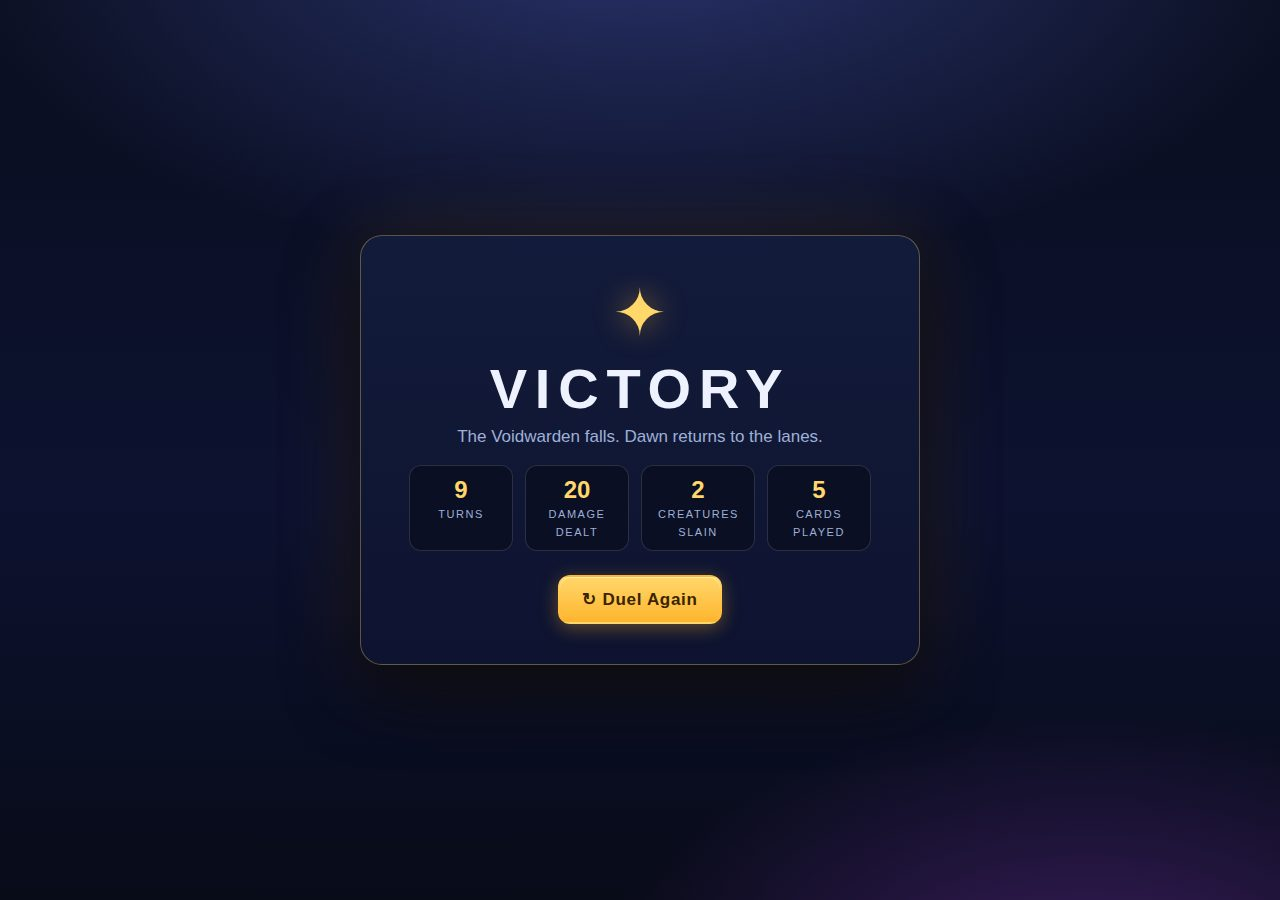
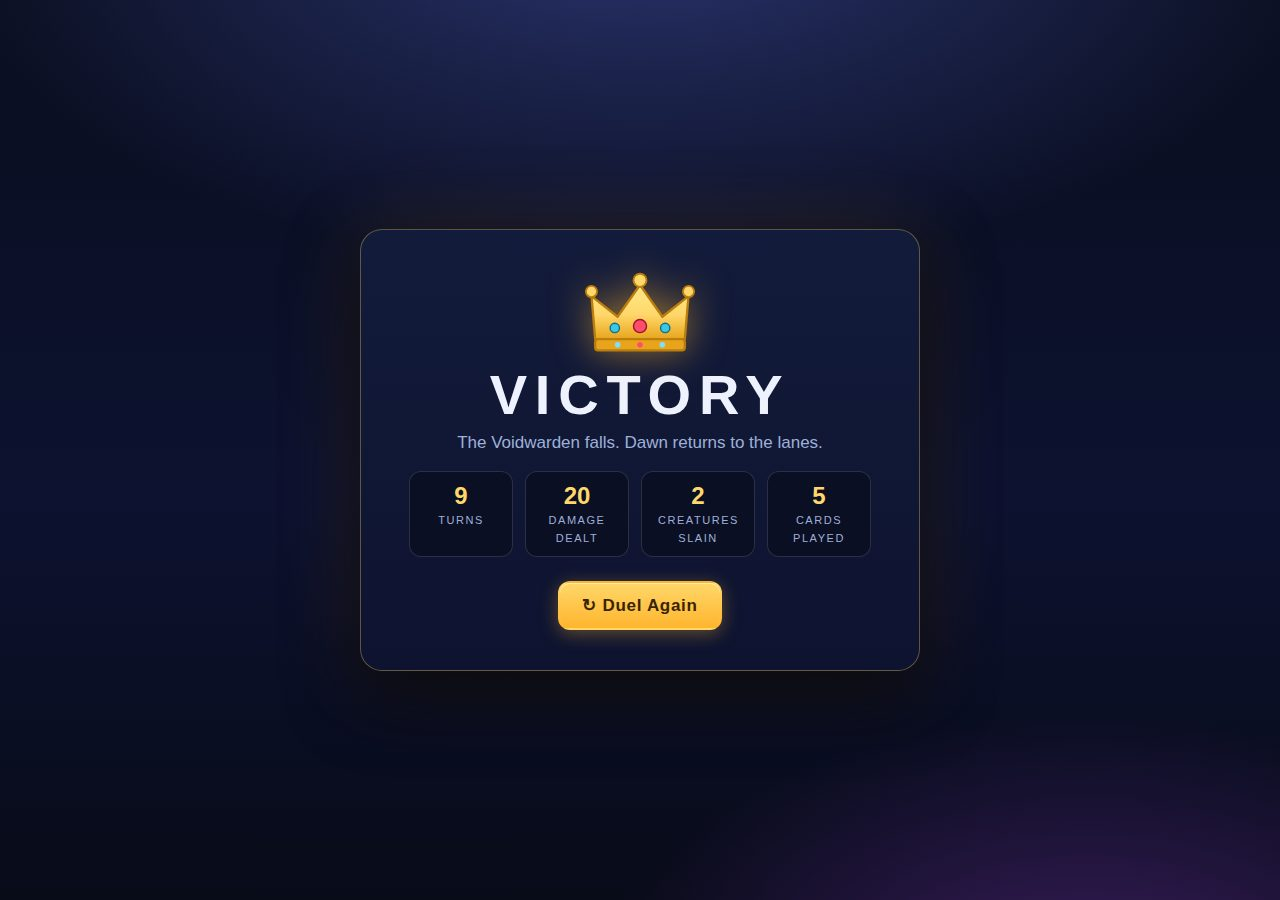
Victory emblem: golden crown (per user request)

diff --git a/game/game.js b/game/game.js
@@ -434,10 +434,31 @@ function checkEnd(){
   if(S.enemy.life <= 0) endGame(true);
   else if(S.player.life <= 0) endGame(false);
 }
+const CROWN_SVG = `<svg viewBox="0 0 120 92" width="112" height="86" role="img" aria-label="Golden crown">
+  <defs>
+    <linearGradient id="crownGold" x1="0" y1="0" x2="0" y2="1">
+      <stop offset="0" stop-color="#ffe98a"/>
+      <stop offset=".55" stop-color="#ffd76a"/>
+      <stop offset="1" stop-color="#e8a51c"/>
+    </linearGradient>
+  </defs>
+  <path d="M12 74 L8 28 L36 50 L60 16 L84 50 L112 28 L108 74 Z" fill="url(#crownGold)" stroke="#b97e0e" stroke-width="2.5" stroke-linejoin="round"/>
+  <circle cx="8" cy="23" r="6" fill="#ffd76a" stroke="#b97e0e" stroke-width="2"/>
+  <circle cx="60" cy="11" r="7" fill="#ffd76a" stroke="#b97e0e" stroke-width="2"/>
+  <circle cx="112" cy="23" r="6" fill="#ffd76a" stroke="#b97e0e" stroke-width="2"/>
+  <rect x="12" y="74" width="96" height="12" rx="3" fill="#e8a51c" stroke="#b97e0e" stroke-width="2.5"/>
+  <circle cx="60" cy="60" r="7" fill="#ff4d6d" stroke="#a1122e" stroke-width="1.5"/>
+  <circle cx="33" cy="62" r="5" fill="#37c8e8" stroke="#0f6f8a" stroke-width="1.5"/>
+  <circle cx="87" cy="62" r="5" fill="#37c8e8" stroke="#0f6f8a" stroke-width="1.5"/>
+  <circle cx="36" cy="80" r="3" fill="#7ee0ff"/>
+  <circle cx="60" cy="80" r="3" fill="#ff4d6d"/>
+  <circle cx="84" cy="80" r="3" fill="#7ee0ff"/>
+</svg>`;
 function endGame(won){
   S.phase = "over";
   els["screen-end"].classList.toggle("lose", !won);
-  els["end-sigil"].textContent = won ? "✦" : "☠";
+  if(won) els["end-sigil"].innerHTML = CROWN_SVG;
+  else els["end-sigil"].textContent = "☠";
   els["end-title"].textContent = won ? "VICTORY" : "DEFEAT";
   els["end-text"].textContent = won
     ? "The Voidwarden falls. Dawn returns to the lanes."

diff --git a/game/style.css b/game/style.css
@@ -166,6 +166,7 @@ body{
 .end-card{text-align:center; max-width:560px; padding:40px 48px; border-radius:22px;
   background:linear-gradient(180deg,#141c3dee,#0e1430f2); border:1px solid #ffd76a55; box-shadow:0 24px 70px #000a, 0 0 90px #ffb52e22;}
 .end-sigil{font-size:64px; color:var(--gold); text-shadow:0 0 30px #ffb52e88;}
+.end-sigil svg{display:block; margin:0 auto; filter:drop-shadow(0 0 18px #ffb52e88);}
 #screen-end.lose .end-sigil{color:#ff6b6b; text-shadow:0 0 30px #ff4d6d66;}
 #screen-end.lose .end-card{border-color:#ff6b6b55;}
 .end-card h1{font-size:56px; letter-spacing:.14em; margin:6px 0;}
